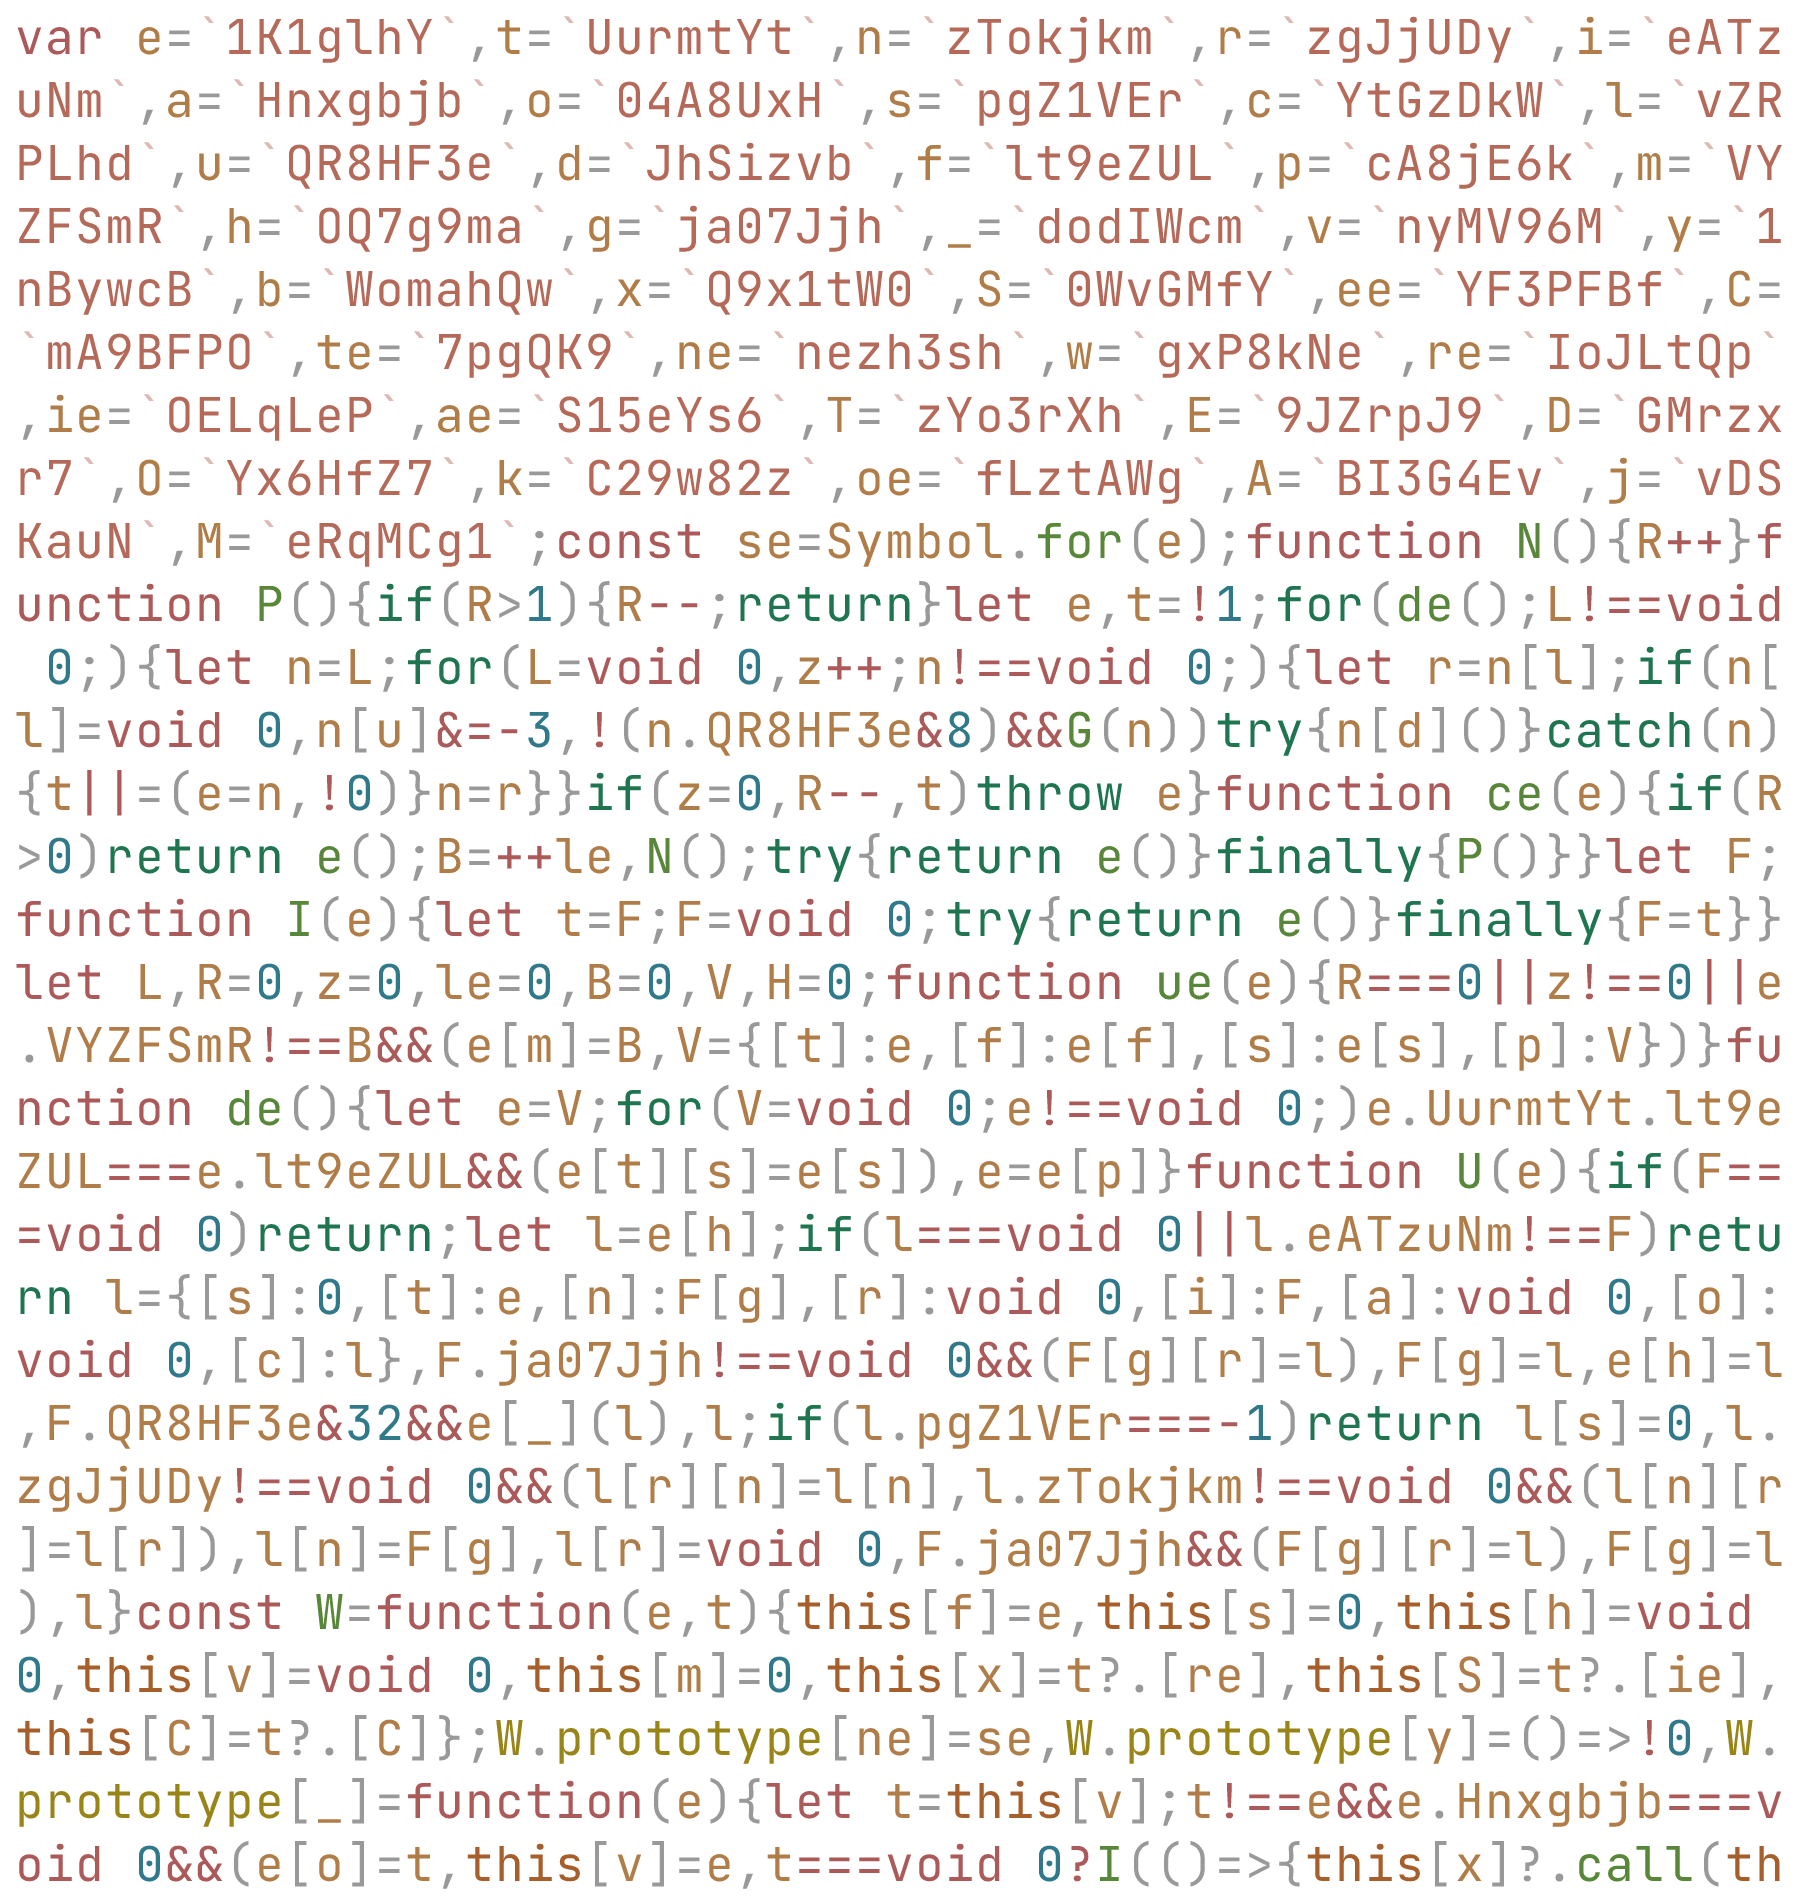
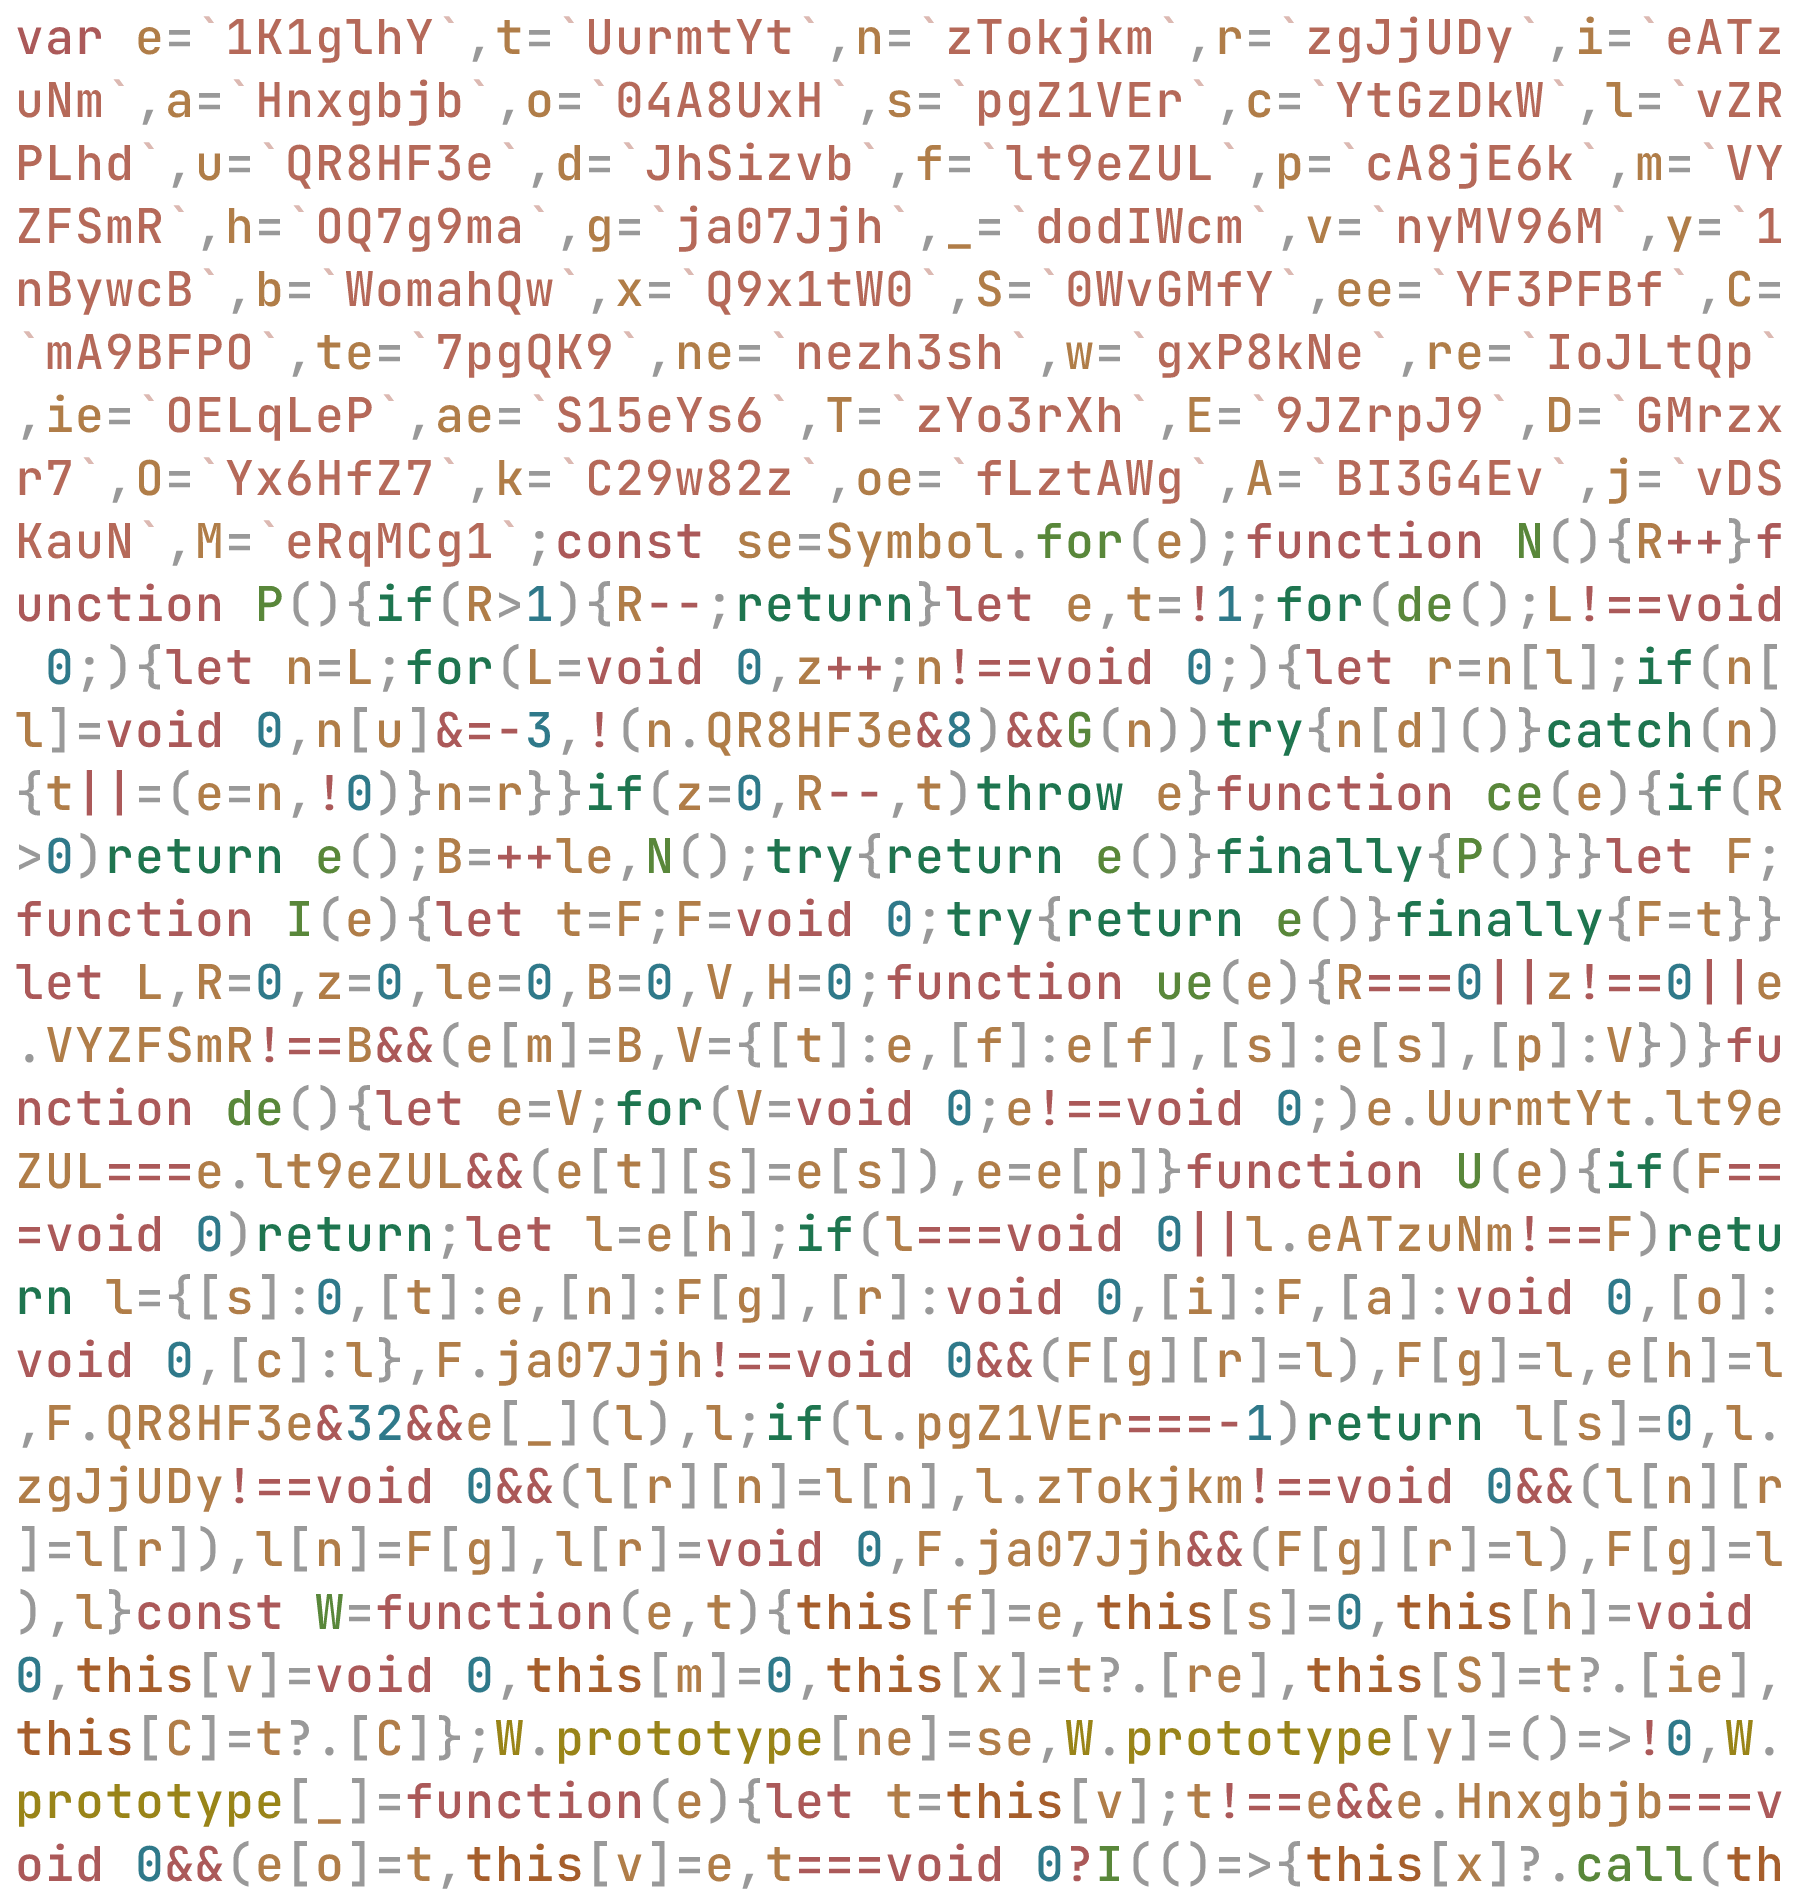
docs: use bolder font for light mode

Changed region(s): [[0.8089, 0.9306, 0.84, 0.9616], [0.6222, 0.8996, 0.6533, 0.9306], [0.4356, 0.3722, 0.4667, 0.4033]]

diff --git a/demo/signals/tsdown.config.ts b/demo/signals/tsdown.config.ts
@@ -52,8 +52,9 @@ const tokensToVNode = (
 };
 
 function image() {
+  const modes = ['light', 'dark'] as const;
+  const fontBuffers: Map<(typeof modes)[number], Buffer> = new Map();
   let highlighter: Highlighter;
-  let fontBuffer: Buffer;
 
   return {
     name: 'rollup-plugin-code-image',
@@ -61,16 +62,19 @@ function image() {
     async buildStart() {
       highlighter = await createHighlighter({
         langs: ['javascript'],
-        themes: ['light', 'dark'].map((scheme) => `vitesse-${scheme}`),
+        themes: modes.map((mode) => `vitesse-${mode}`),
       });
-      const fontPath = path.join(
-        'node_modules',
-        '@expo-google-fonts',
-        'jetbrains-mono',
-        '400Regular',
-        'JetBrainsMono_400Regular.ttf',
-      );
-      fontBuffer = await readFile(fontPath);
+      for (const mode of modes) {
+        const weight = mode === 'light' ? '500Medium' : '400Regular';
+        const fontPath = path.join(
+          'node_modules',
+          '@expo-google-fonts',
+          'jetbrains-mono',
+          weight,
+          `JetBrainsMono_${weight}.ttf`,
+        );
+        fontBuffers.set(mode, await readFile(fontPath));
+      }
     },
 
     async writeBundle(
@@ -83,10 +87,10 @@ function image() {
         if (!fileName.endsWith('.js') || !code) {
           continue;
         }
-        for (const scheme of ['light', 'dark']) {
+        for (const mode of modes) {
           const { tokens, bg, fg } = highlighter.codeToTokens(code, {
             lang: 'javascript',
-            theme: `vitesse-${scheme}`,
+            theme: `vitesse-${mode}`,
           });
           const vnode = tokensToVNode(tokens, bg, fg);
           const svg = await satori(vnode, {
@@ -95,9 +99,7 @@ function image() {
             fonts: [
               {
                 name: 'JetBrains Mono',
-                data: fontBuffer,
-                weight: 400,
-                style: 'normal',
+                data: fontBuffers.get(mode) as Buffer,
               },
             ],
           });
@@ -107,7 +109,7 @@ function image() {
             font: { loadSystemFonts: false },
           });
           const png = resvg.render().asPng();
-          const outPath = path.join(outDir, `${fileName}.${scheme}.png`);
+          const outPath = path.join(outDir, `${fileName}.${mode}.png`);
           await writeFile(outPath, png);
         }
       }
